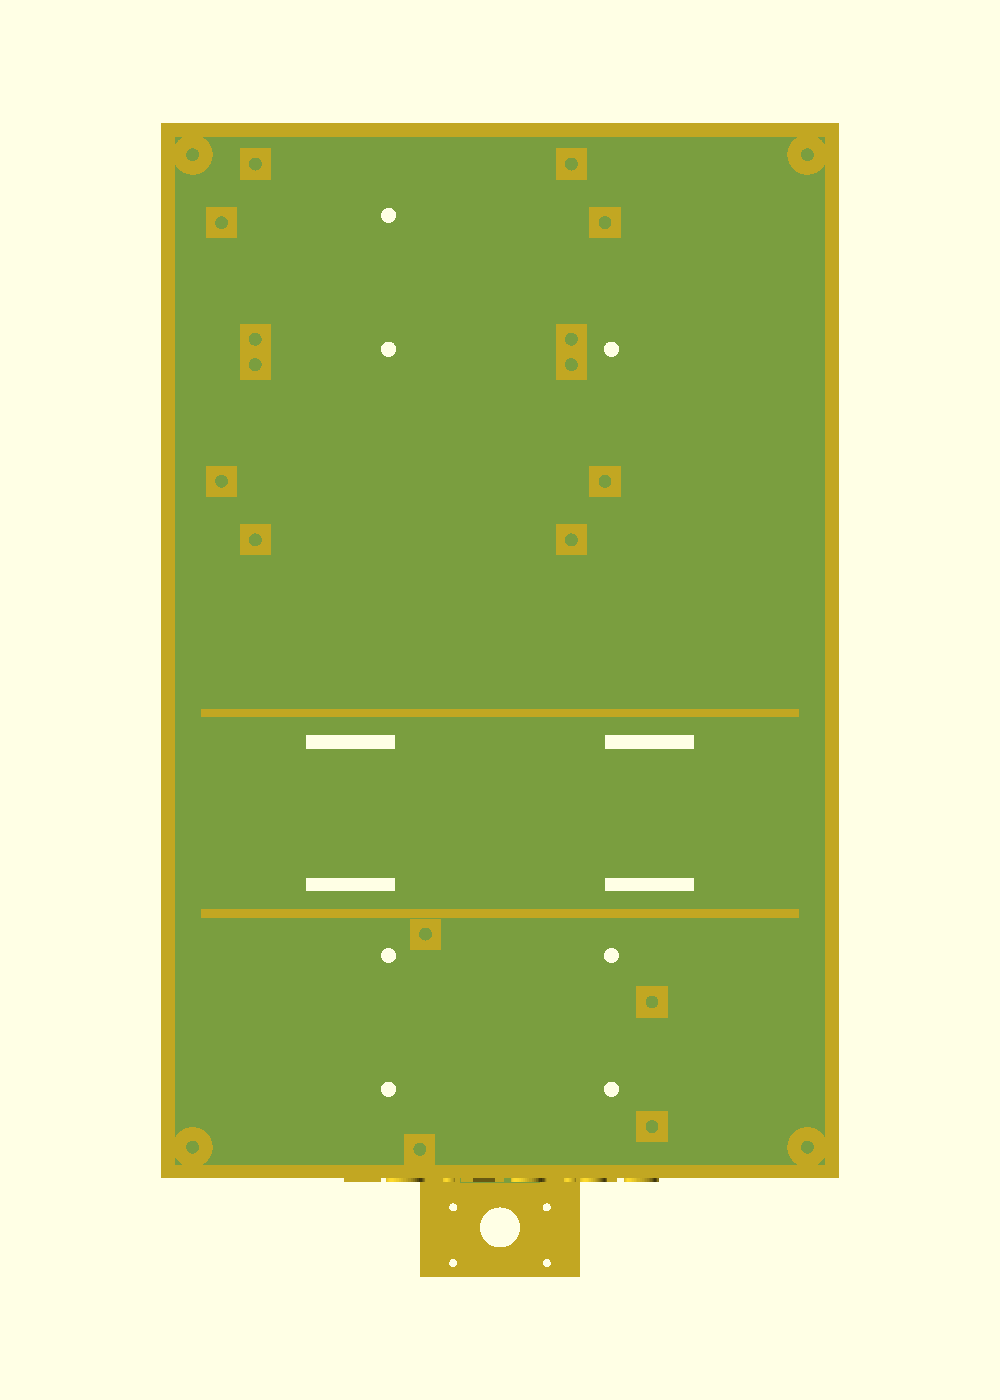
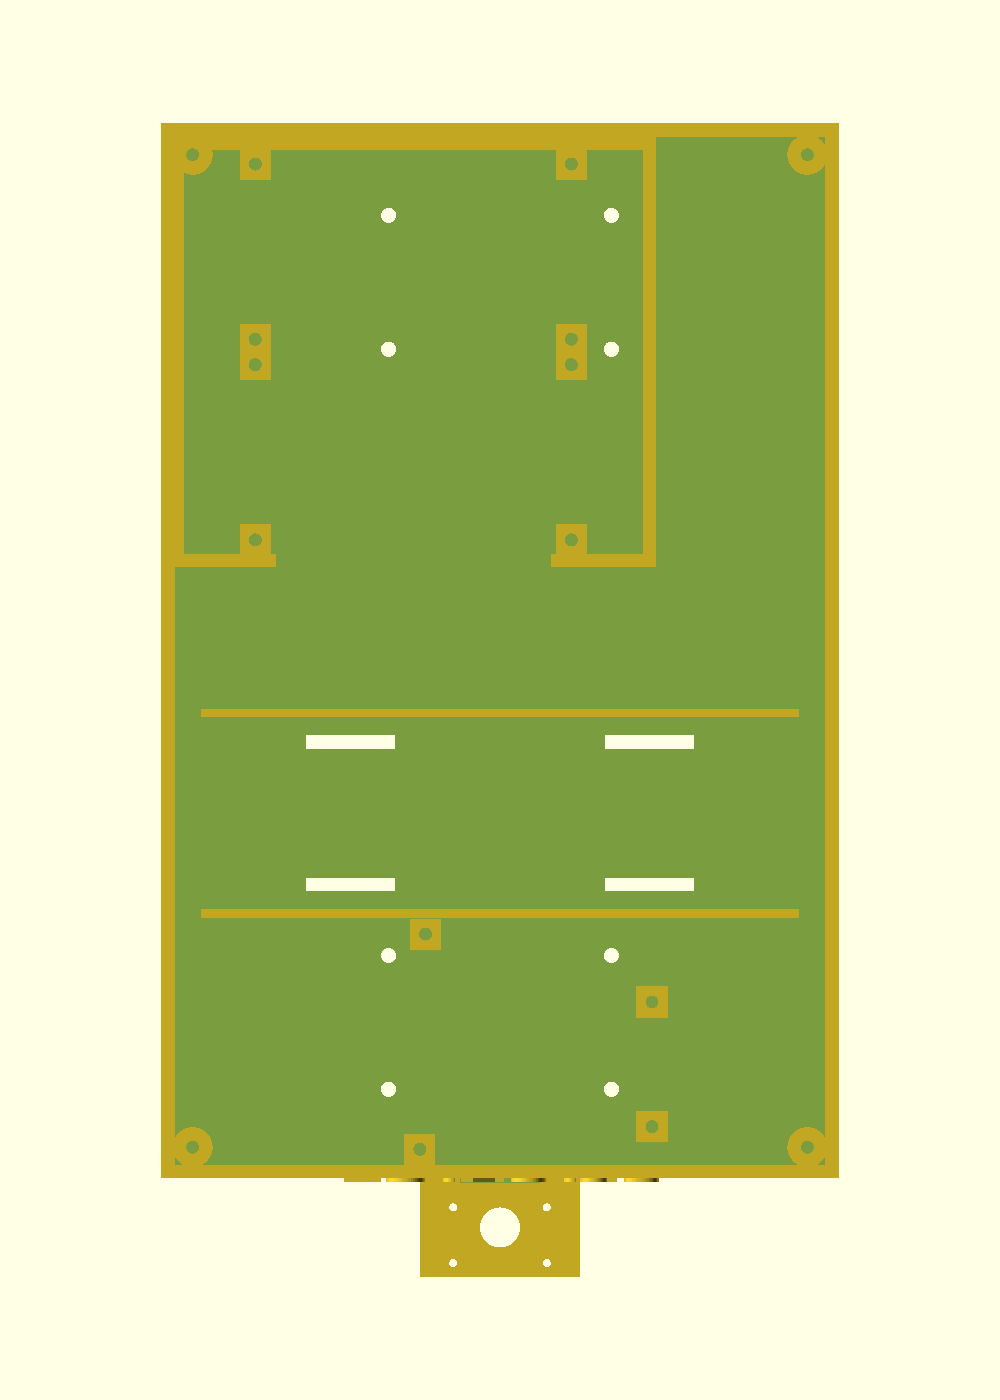
케이스: SO-101 4구멍 최종 실측(전면 56.7·+15.0 / 후면 64.4·-55.0)으로 정정
자동운전 사이클 652·654가 이미 벅부스트 두께(14.2)·젯슨 무나사 얹기 구조·SO-101
초기값(67.5/64.4, 앞뒤 방향)을 반영해 둔 상태였음 — 그 위에 두 가지만 추가 정정:
1. 전면 구멍 간격이 67.5가 아니라 56.7 (BOTTOM STL 좌표차 계산값 폐기, 실측 채택)
2. ros_selfcheck의 SO-101 검사를 새 실측값 기준으로 갱신

Changed region(s): [[0.155, 0.0921, 0.682, 0.43]]

diff --git a/ros2/tools/ros_selfcheck.py b/ros2/tools/ros_selfcheck.py
@@ -458,8 +458,13 @@ def test_geometry_matches() -> None:
           f"mount_dy={mdy}, mount_gap={mgap}, pitch={pitch}, outer={pitch + mdy}")
     check("tomato_case.scad 배터리 자리가 BOTTOM 관통 터널(43×57×134, 사용자 확인)과 같다",
           re.search(r"^\s*batt\s*=\s*\[\s*134\s*,\s*43\s*,\s*57\s*\]\s*;", scad_src, re.M) is not None)
-    check("tomato_case.scad SO-101 받침 구멍 간격이 BOTTOM 가운데 두 나사 67.5mm다",
-          re.search(r"so101_holes\s*=\s*\[\[\s*-67\.5\s*/\s*2\s*,", scad_src) is not None)
+    # 2026-09-27 사용자 실측(전수): 전면 간격 56.7(BOTTOM STL 계산값 67.5는 폐기), 후면 간격 64.4.
+    check("tomato_case.scad SO-101 받침 4구멍이 실측(전면 56.7·+15.0 / 후면 64.4·-55.0)과 일치한다",
+          re.search(r"so101_front_gap\s*=\s*56\.7\s*;", scad_src) is not None and
+          re.search(r"so101_holes\s*=\s*\[\[\s*-so101_front_gap\s*/\s*2\s*,\s*15\.0\s*\],"
+                    r"\s*\[\s*so101_front_gap\s*/\s*2\s*,\s*15\.0\s*\],"
+                    r"\s*\[\s*-64\.4\s*/\s*2\s*,\s*-55\.0\s*\],"
+                    r"\s*\[\s*64\.4\s*/\s*2\s*,\s*-55\.0\s*\]\s*\]\s*;", scad_src) is not None)
     check("tomato_case.scad에 차체 길이 195.5를 박아 두지 않았다 (195.5는 나사 간 거리)",
           re.search(r"(chassis_d|case_d)\s*=\s*195\.5", scad_src) is None)
 

diff --git a/hardware_design/case/README.md b/hardware_design/case/README.md
@@ -24,9 +24,11 @@
 - **배터리는 세워서 아두이노 바로 뒤에 가로로 눕힌다** — 크기 = BOTTOM 관통 터널 43×57×134(사용자 확인).
   눕히면(높이 43) 뚜껑 밑 서보 걸이와 부딪혀서 세운다. 앞뒤 턱 + 바닥 밴드 슬롯 4개로 고정.
   순서(앞→뒤): 아두이노 → 배터리 → 서보(회전 중심) → 젯슨. 배선 슬롯은 배터리와 젯슨 사이 왼쪽 빈칸에 떨어진다.
-- **벅부스트 2장(76.6×45)은 젯슨 밑에 앞뒤로** — 45+45=90 ≤ 젯슨 깊이 90.5. 케이스를 안 키우는 유일한 자리.
-  젯슨 받침 높이는 `buck_parts_h`(판 위 가장 높은 부품)에서 계산된다 — 이 값을 재야 한다(지금 20).
-  젯슨 NVMe 슬롯이 밑면이라 SSD를 갈 땐 젯슨을 들어내야 한다.
+- **벅부스트 2장(76.6×45, 두께 14.2 실측)은 젯슨 밑에 앞뒤로** — 45+45=90 ≤ 젯슨 깊이 90.5. 케이스를 안 키우는 유일한 자리.
+  젯슨 받침 높이는 `buck_parts_h`(=14.2, 실측 완료)에서 계산된다.
+- **젯슨은 나사로 안 박는다** — 지금 쓰는 WiFi 안테나 포함 버전은 캐리어 보드에 고정 구멍이 없다(안테나가 그 자리를 씀).
+  대신 밑판 받침 + 둘레 턱(fence)으로 얹기만 한다. 앞쪽(회전판 쪽) 턱은 낮춰서 손으로 들어내기 쉽게 했다 —
+  보드를 분리할 일이 있으면 여기로 들어 올린다.
 
 ## 회전 베어링 = 6816-2RS (80 × 100 × 10, 얇은 깊은홈) — 2026-09-26 구매
 레이지수잔은 기울기 유격이 커서 뺐다(팔 끝 30cm에서 0.5°면 ~2.6mm). 5.5인치 제품은 안지름 64라 안쪽에 들어갈 자리도 없었다.
@@ -75,6 +77,12 @@ openscad -D 'part="fit_test"' -o fit_test.stl tomato_case.scad
 - `lid`는 뒤집어서(서보 걸이가 위로) 출력. `platform`도 뒤집어서(허브가 위로) — 허브 걸쇠 턱이 45° 비탈이라 받침 없이 된다.
 - 콘솔에 `⚠`가 뜨면 베드 초과·부품 겹침이다.
 
+## SO-101 받침 체결 4구멍 (2026-09-27 전수 실측 완료)
+받침 중심선(X=0) 기준 좌우대칭, 회전판 좌표 +Y=전면(팔이 보는 쪽):
+- **전면쪽 2개**: 간격 **56.7**, 회전축보다 15.0mm 앞. (BOTTOM STL 좌표차로 계산했던 67.5는 폐기 — 실측이 맞다.)
+- **후면쪽 2개**: 간격 **64.4**, 회전축보다 55.0mm 뒤.
+- 앞/뒤가 대화 중 한 번 뒤집혔다가 정정됐다 — 헷갈리면 `so101_holes`의 부호를 다시 확인할 것.
+
 ## 출력 전 실측 (scad의 `[실측]` 줄)
-베어링 끼움 공차(`fit_test`) · 벅부스트 부품 높이 · 젯슨 캐리어 고정 구멍 위치(지금 86×58 추정) ·
-SO-101 나머지 두 구멍과 앞뒤 위치. 목록 = [`3D-parts-mapping.md`](../../docs/design/3D-parts-mapping.md) 끝.
+남은 것은 **베어링 끼움 공차(`fit_test`)** 하나뿐이다. 그 외(차체 상판 길이, TOPLeft 앞 끝)는
+케이스 동작에 필요 없다. 목록 = [`3D-parts-mapping.md`](../../docs/design/3D-parts-mapping.md) 끝.
